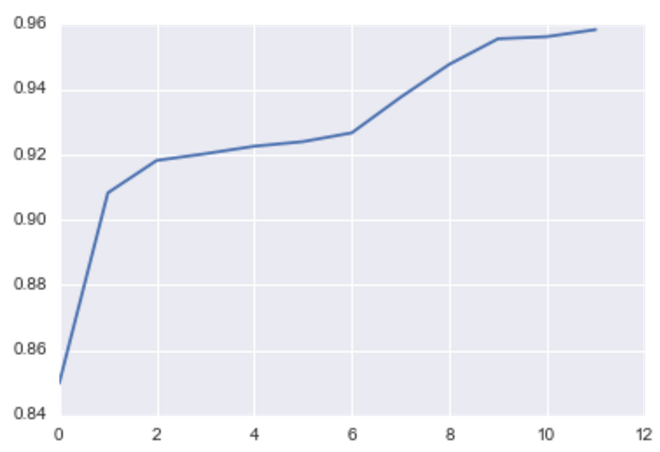
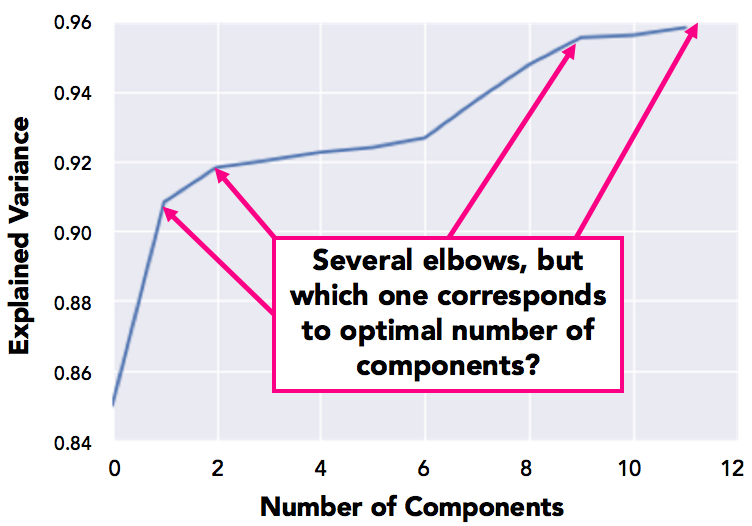
updates to text and images

diff --git a/_posts/2016-06-01-Marijuana.md b/_posts/2016-06-01-Marijuana.md
@@ -14,22 +14,20 @@ I developed a two-step approach to to try to answer this question. First, I want
 
 ## Analysis
 
-I performed [TF-IDF](https://en.wikipedia.org/wiki/Tf%E2%80%93idf) on articles grouped into 5-year chunks of text in order to identify the most important words in each 5-year chunk. The resulting feature set was 1.1 million n-grams, or 1.1 million dimensions(!). To avoid the [curse of dimensionality](https://en.wikipedia.org/wiki/Curse_of_dimensionality) that occurs when one attempts to cluster higher dimensional datasets, I conducted a [principal component analysis (PCA)](https://en.wikipedia.org/wiki/Principal_component_analysis) to reduce the dimensionality of the feature set. The PCA results are below. I found that two components yielded the most intelligible clusters, and so used two dimensions to carry out the rest of the analysis.
+I performed [TF-IDF](https://en.wikipedia.org/wiki/Tf%E2%80%93idf) on articles grouped into 5-year chunks of text in order to identify the most important words in each 5-year chunk. The resulting feature set was 1.1 million n-grams, or 1.1 million dimensions(!). To avoid the [curse of dimensionality](https://en.wikipedia.org/wiki/Curse_of_dimensionality) that occurs when one attempts to cluster higher dimensional datasets, I conducted a [principal component analysis (PCA)](https://en.wikipedia.org/wiki/Principal_component_analysis) to reduce the dimensionality of the feature set. 
+
+The PCA results are shown below as a chart showing the number of components versus explained variance. Because there was more than one elbow (as shown in the figure), I decided to compute the cosine similarities at each elbow to see which set of components yielded the best, most intelligible clusters.
 
 ![PCA results]({{site.baseurl}}/pgr-me.github.io/images/004-marijuana-pca.png)
 
-The next step of the analysis was to use the top two PCA dimensions to perform the cluster analysis. I generated a cosine similarity matrix to map the relatedness of the terms within each 5-year text chunk to one another. From that, I was able to identify two intelligible clusters. 
+I visualized clusters using color-coded cosine similarity matrices provided below. The color of each square represents the relatedness between two five-year text chunks. As you can see, two components resulted in over-clustering while clusters did not really form using twelve components. Nine components yielded the most intelligible clusters.
 
-The first intelligible cluster ranged from about 1970 to 1990. Key words included paraquat, a herbicide used to eradicate illicit marijuana crops, Noriega, a corrupt Panamanian general involved in the drug trade, and terms related to enforcement of marijuana laws. These terms make sense given the historical context, when the federal and state governments adopted increasingly strict enforcement policies to limit marijuana consumption and trafficking. Public sentiment on legalizing marijuana correlated with these policies, as the vast majority of Americans opposed legalization. 
+![PCA results]({{site.baseurl}}/pgr-me.github.io/images/004-marijuana-cosine.png)
 
-The second intelligible cluster ranged from the late 2000s to the present, and included key terms like recreational marijuana. During this time, multiple states have decided to decriminalize and legalize recreational marijuana consumption as Americans have become more supportive of legalizing recreational use of the drug.
-
-I was not able to identify any clusters from about 1990 up through the late 2000s, which was perhaps due to an issue with [stop words](https://en.wikipedia.org/wiki/Stop_words) that I did not catch earlier in the analysis.
-
-The figure below overlays key words from the two clusters I identified and public sentiment on legalizing marijuana.
+Next, I wanted to overlay the top thirty words from each cluster and public sentiment regarding legalizing marijuana. The first cluster ranged from 1965 to the late 1970s, a time when awareness and use of marijuana rapidly increased. Key words from this period were related to crime and enforcement of marijuana laws. The second cluster overlapped with the Reagan administration, and included new terms such as cocaine, a drug that became more popular in the 1980s. The third cluster more or less spanned the George HW Bush and Clinton administrations, and was the first time that medical popped into a cluster's top thirty list. During this time, California, Oregon, Main, Nevada, and Colorado legalized medical marijuana. The fourth cluster occurred around 2005, and included words that don't seem related to marijuana, including 'theater' and 'art'. The fifth cluster ranged from the late 2000s to the present, and included key terms like recreational marijuana. During this time, multiple states have decided to decriminalize and legalize recreational marijuana consumption as Americans have become more supportive of legalizing recreational use of the drug. 
 
 ![Key words and sentiment on legalization]({{site.baseurl}}/pgr-me.github.io/images/004-marijuana-sentiment.png)
 
 ## Conclusions
 
-In sum, the pre-processing and clustering approach I used succeeded in identifying two intelligible clusters. Words associated with marijuana from 1990 to 1970 were related to crime, enforcement, prevention. Then, stories on marijuana shifted toward decriminalization, legalization, and recreational marijuana use as public support for legalization increased. Check out my code on [Github](https://github.com/pgr-me/metis_projects/tree/master/fletcher) to see the full analysis!
+In sum, the pre-processing and clustering approach I used succeeded in identifying two intelligible clusters. For the latter half of the 20th century, words associated with marijuana tended to relate to crime, enforcement, and prevention. In the 90s and 2000s, stories on marijuana shifted toward decriminalization, legalization, and recreational marijuana use as public support for legalization increased. Check out my code on [Github](https://github.com/pgr-me/metis_projects/tree/master/fletcher) to see the full analysis!
